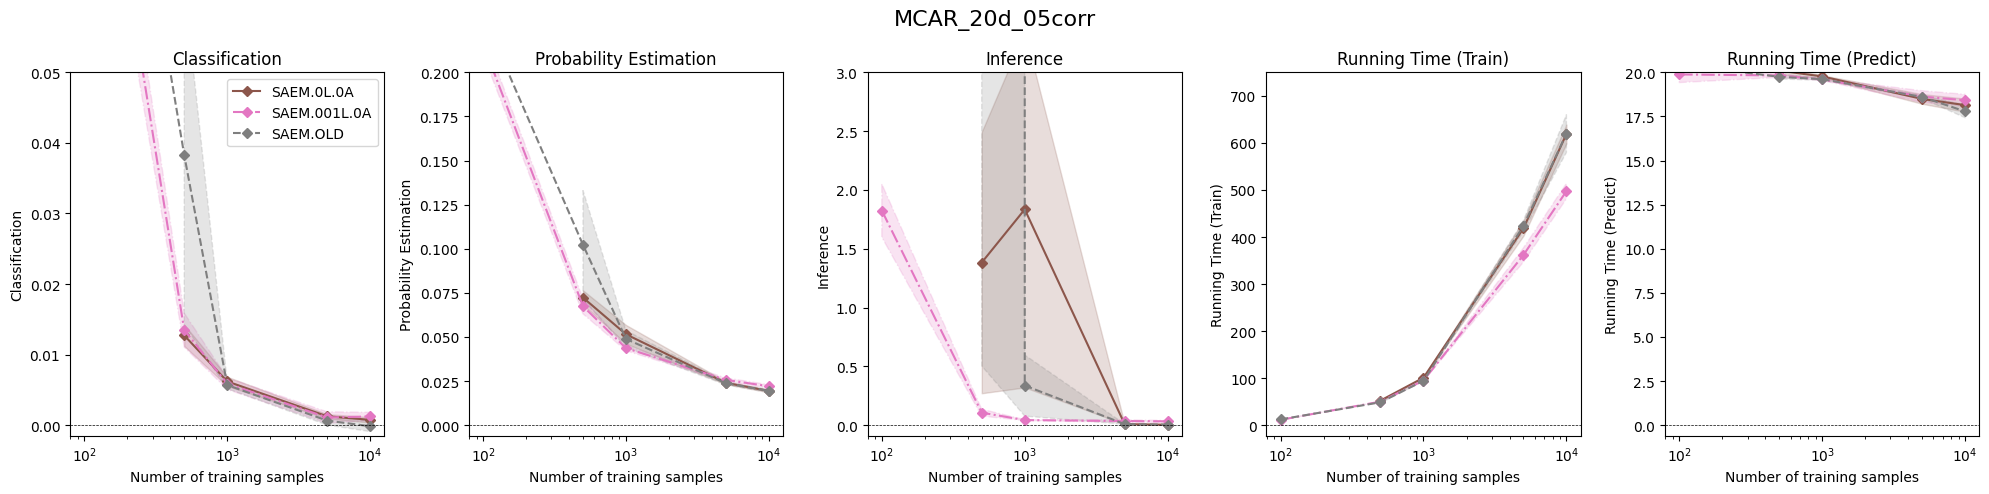
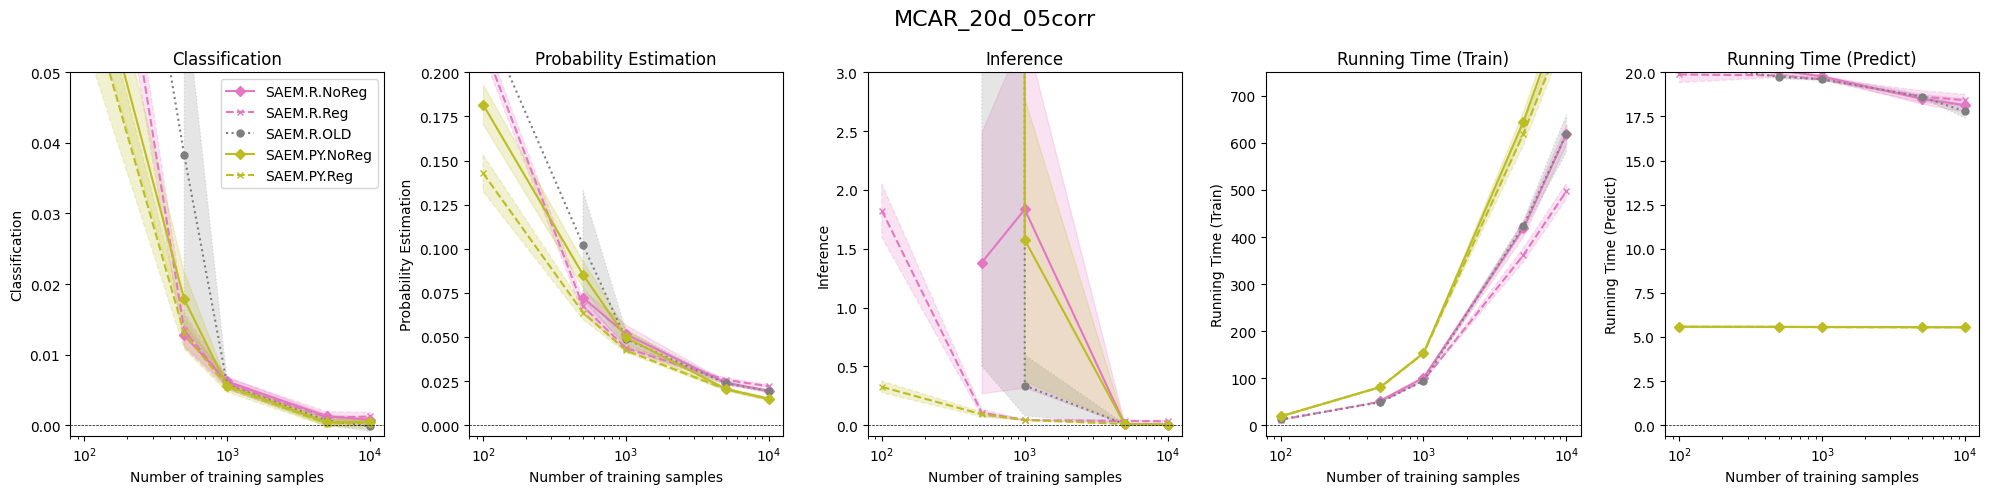
update readme

diff --git a/readme.md b/readme.md
@@ -1,12 +1,15 @@
 Results of:
-* SAEM.OLD (implementation from [wijiang94](https://github.com/wjiang94/misaem))
-* SAEM.0L.0A ([new implementation](https://github.com/ChristopheMuller/misaem), no regularization: lambda = 0, alpha = 0)
-* SAEM.001.0A ([new implementation](https://github.com/ChristopheMuller/misaem), some small regularization: lambda = 0.01, alpha = =1=Ridge)
+* SAEM.R.OLD (implementation from [wijiang94](https://github.com/wjiang94/misaem))
+* SAEM.R.NoReg ([new implementation](https://github.com/ChristopheMuller/misaem), no regularization: lambda = 0, alpha = 0)
+* SAEM.R.Reg ([new implementation](https://github.com/ChristopheMuller/misaem), some small regularization: lambda = 0.01, alpha = =1=Ridge)
+* SAEM.PY.NoReg ([new implementation](https://github.com/ChristopheMuller/misaem_python)), no regularization
+* SAEM.PY.Reg ([new implementation](https://github.com/ChristopheMuller/misaem_python)), some regularization (l2, C=1)
 
 In term of stability:
-* SAEM.OLD fails for small n when correlation is high or number of covariates is big
-* SAEM.0L.0A fails sometimes but raise the right error (suggest to add regularisation)
-* SAEM.001L.0A never fails
+* SAEM.R.OLD fails for small n when correlation is high or number of covariates is big
+* SAEM.R.NoReg fails sometimes but raise the right error (suggest to add regularisation)
+* SAEM.R.Reg never fails
+* SAEM.PY.Reg and SAEM.PY.NoReg never fails
 
 ![mcar5d0c](tables_and_figures/figures/MCAR_5d_0corr.png)
 ![mcar5d095c](tables_and_figures/figures/MCAR_5d_095corr.png)
